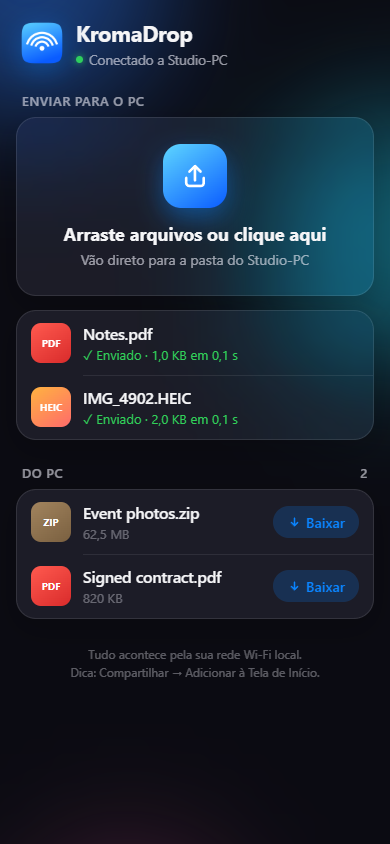
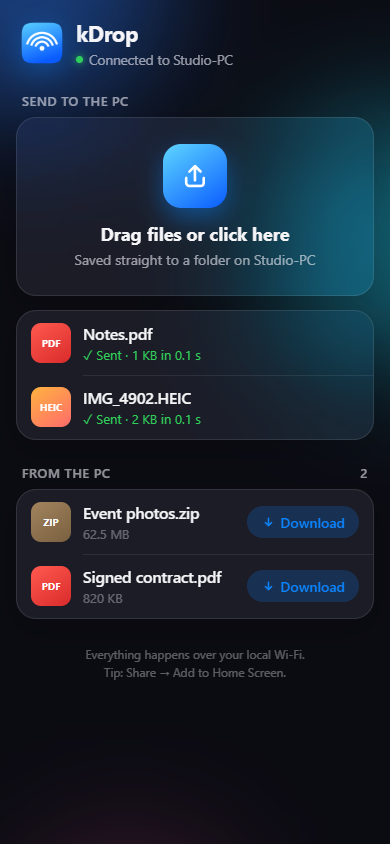
Rename the app to kDrop
New product name, package name and app ID. Settings, history and the
access code move over from the old KromaDrop data folder on first run.
README screenshots retaken, with an example save path.

diff --git a/src/main.js b/src/main.js
@@ -9,7 +9,7 @@ const { Store } = require('./store');
 const { DropServer, localAddresses } = require('./server');
 const i18n = require('./i18n');
 
-app.setAppUserModelId('com.kromaverso.kromadrop');
+app.setAppUserModelId('com.kromaverso.kdrop');
 // Modo de captura de telas (desenvolvimento): perfil isolado, salva PNGs e fecha.
 const CAPTURE_DIR = process.env.KD_CAPTURE;
 if (CAPTURE_DIR) app.setPath('userData', path.join(CAPTURE_DIR, 'profile'));
@@ -97,7 +97,7 @@ function createWindow() {
     minWidth: 820,
     minHeight: 560,
     show: false,
-    title: 'KromaDrop',
+    title: 'kDrop',
     icon: path.join(ASSETS, 'icon.png'),
     titleBarStyle: 'hidden',
     backgroundMaterial: 'acrylic',
@@ -138,7 +138,7 @@ function updateTray() {
   if (!tray) return;
   const a = localAddresses()[0];
   const status = server.server && a ? t('tray.ready', { address: `${a.address}:${server.port}` }) : t('tray.stopped');
-  tray.setToolTip(`KromaDrop — ${status}`);
+  tray.setToolTip(`kDrop — ${status}`);
   tray.setContextMenu(Menu.buildFromTemplate([
     { label: status, enabled: false },
     { type: 'separator' },
@@ -278,15 +278,29 @@ const handlers = {
 };
 for (const [ch, fn] of Object.entries(handlers)) ipcMain.handle(ch, (_e, ...args) => fn(...args));
 
+// O app se chamava KromaDrop: traz configurações, histórico e código de acesso da pasta antiga.
+function migrateFromKromaDrop() {
+  const oldFile = path.join(app.getPath('appData'), 'KromaDrop', 'kromadrop.json');
+  const newFile = path.join(app.getPath('userData'), 'kdrop.json');
+  if (CAPTURE_DIR || fs.existsSync(newFile) || !fs.existsSync(oldFile)) return;
+  try {
+    fs.mkdirSync(path.dirname(newFile), { recursive: true });
+    fs.copyFileSync(oldFile, newFile);
+  } catch (err) {
+    console.error('Migração do KromaDrop falhou:', err);
+  }
+}
+
 // ---------- App ----------
 app.on('second-instance', () => showWindow());
 
 app.whenReady().then(async () => {
+  migrateFromKromaDrop();
   store = new Store(app.getPath('userData'));
   if (process.env.KD_LANG) store.data.settings.language = process.env.KD_LANG; // capturas por idioma
   applyLanguage();
   server = new DropServer(store);
-  server.logFile = path.join(app.getPath('userData'), 'kromadrop.log');
+  server.logFile = path.join(app.getPath('userData'), 'kdrop.log');
   wireServer();
   nativeTheme.themeSource = 'system';
 

diff --git a/tools/capture.js b/tools/capture.js
@@ -10,7 +10,9 @@ async function captureViews({ win, store, server, transfers, pushState, outDir }
   const samples = path.join(outDir, 'samples');
   fs.mkdirSync(samples, { recursive: true });
   store.data.settings.deviceName = 'Studio-PC';
-  store.data.settings.saveDir = path.join(outDir, 'received');
+  // Caminho de exemplo só para as capturas do PC (nada é salvo nelas); a página do
+  // celular, que envia arquivos de verdade, usa a pasta temporária logo abaixo.
+  store.data.settings.saveDir = 'C:\\Users\\Studio\\Downloads\\kDrop';
   const mk = (name, kb) => {
     const p = path.join(samples, name);
     fs.writeFileSync(p, Buffer.alloc(kb * 1024));
@@ -43,6 +45,7 @@ async function captureViews({ win, store, server, transfers, pushState, outDir }
   }
 
   // Página do iPhone
+  store.data.settings.saveDir = path.join(outDir, 'received');
   const phone = new BrowserWindow({ width: 390, height: 844, show: true, frame: false, backgroundColor: '#0b0b12' });
   await phone.loadURL(`http://127.0.0.1:${server.port}/?t=${store.settings.token}`);
   await wait(1200);

diff --git a/src/mobile/index.html b/src/mobile/index.html
@@ -5,11 +5,11 @@
   <meta name="viewport" content="width=device-width, initial-scale=1, viewport-fit=cover" />
   <meta name="apple-mobile-web-app-capable" content="yes" />
   <meta name="apple-mobile-web-app-status-bar-style" content="black-translucent" />
-  <meta name="apple-mobile-web-app-title" content="KromaDrop" />
+  <meta name="apple-mobile-web-app-title" content="kDrop" />
   <meta name="theme-color" content="#0b0b12" />
   <link rel="apple-touch-icon" href="/icon.png" />
   <link rel="manifest" href="/manifest.webmanifest" />
-  <title>KromaDrop</title>
+  <title>kDrop</title>
   <style>
     :root {
       --bg: #0b0b12;
@@ -123,7 +123,7 @@
   <header>
     <img src="/icon.png" alt="" />
     <div>
-      <h1>KromaDrop</h1>
+      <h1>kDrop</h1>
       <p><span class="dot" id="dot"></span><span id="conn"></span></p>
     </div>
   </header>

diff --git a/src/server.js b/src/server.js
@@ -99,7 +99,7 @@ class DropServer extends EventEmitter {
     return this.start();
   }
 
-  // Registro simples para diagnosticar transferências (kromadrop.log na pasta de dados).
+  // Registro simples para diagnosticar transferências (kdrop.log na pasta de dados).
   log(line) {
     if (!this.logFile) return;
     fs.appendFile(this.logFile, `${new Date().toISOString()} ${line}\n`, () => {});
@@ -200,7 +200,7 @@ class DropServer extends EventEmitter {
     const total = Number(req.headers['content-length']) || 0;
     const device = deviceFromUA(req.headers['user-agent']);
     const id = crypto.randomUUID();
-    const partial = path.join(dir, `.${id}.kromadrop-part`);
+    const partial = path.join(dir, `.${id}.kdrop-part`);
     const out = fs.createWriteStream(partial);
     let received = 0;
     let lastEmit = 0;

diff --git a/src/renderer/index.html b/src/renderer/index.html
@@ -3,7 +3,7 @@
 <head>
   <meta charset="utf-8" />
   <meta http-equiv="Content-Security-Policy" content="default-src 'self'; img-src 'self' data:; style-src 'self' 'unsafe-inline'; script-src 'self'" />
-  <title>KromaDrop</title>
+  <title>kDrop</title>
   <link rel="stylesheet" href="styles.css" />
 </head>
 <body>
@@ -22,7 +22,7 @@
       <div class="brand">
         <img src="../../assets/icon.png" alt="" />
         <div>
-          <strong>KromaDrop</strong>
+          <strong>kDrop</strong>
           <span id="brand-device">—</span>
         </div>
       </div>

diff --git a/src/store.js b/src/store.js
@@ -15,10 +15,10 @@ function newToken() {
 
 class Store {
   constructor(dir) {
-    this.file = path.join(dir, 'kromadrop.json');
+    this.file = path.join(dir, 'kdrop.json');
     const defaults = {
       settings: {
-        saveDir: path.join(os.homedir(), 'Downloads', 'KromaDrop'),
+        saveDir: path.join(os.homedir(), 'Downloads', 'kDrop'),
         organizeByDate: false,
         port: 8765,
         token: newToken(),

diff --git a/README.md b/README.md
@@ -1,8 +1,8 @@
 <p align="center">
-  <img alt="KromaDrop" src="assets/icon.png" width="112">
+  <img alt="kDrop" src="assets/icon.png" width="112">
 </p>
 
-<h1 align="center">KromaDrop</h1>
+<h1 align="center">kDrop</h1>
 
 <p align="center">
   <b>AirDrop-style file sharing for Windows: send to and from iPhone, Mac and any computer on your Wi-Fi.</b><br>
@@ -29,7 +29,7 @@
 </p>
 
 <p align="center">
-  <img alt="KromaDrop on Windows: recent transfers with a file arriving from an iPhone" src="docs/images/recent.png" width="860">
+  <img alt="kDrop on Windows: recent transfers with a file arriving from an iPhone" src="docs/images/recent.png" width="860">
   <br>
   <sub>Recents: everything that came in and went out, grouped by day, with live progress and speed.</sub>
 </p>
@@ -74,7 +74,7 @@ To add a language, copy [`src/locales/en.json`](src/locales/en.json) to `src/loc
       <h3>Send from the PC</h3>
       Drag files anywhere onto the window, or press <b>Ctrl+O</b>. They appear instantly under <b>From the PC</b> on every connected phone or computer, with no refresh needed. On the iPhone, <b>Download</b> saves to Files → Downloads.
       <br><br>
-      Shared files stay available until you remove them. KromaDrop serves them straight from where they are on disk, without copying them.
+      Shared files stay available until you remove them. kDrop serves them straight from where they are on disk, without copying them.
     </td>
     <td width="50%" valign="top">
       <img alt="iPhone page with uploads and files from the PC" src="docs/images/phone.png" width="300">
@@ -121,21 +121,21 @@ To add a language, copy [`src/locales/en.json`](src/locales/en.json) to `src/loc
 ## How it works
 
 ```
- iPhone / Mac / other PC                         Windows PC running KromaDrop
+ iPhone / Mac / other PC                         Windows PC running kDrop
  ┌────────────────────┐   same Wi-Fi / router   ┌──────────────────────────────┐
  │  Safari / browser  │ ──── HTTP upload ─────▶ │  local server (port 8765)    │──▶ your folder
- │  KromaDrop page    │ ◀─── HTTP download ──── │  shared files list           │◀── drag & drop
+ │  kDrop page    │ ◀─── HTTP download ──── │  shared files list           │◀── drag & drop
  │                    │ ◀─── live updates ───── │  (Server-Sent Events)        │
  └────────────────────┘                         └──────────────────────────────┘
 ```
 
-KromaDrop runs a small web server on your PC that only your local network can reach. The phone or computer opens its page, and files stream straight between the two devices, with nothing in the middle.
+kDrop runs a small web server on your PC that only your local network can reach. The phone or computer opens its page, and files stream straight between the two devices, with nothing in the middle.
 
-**Why doesn't the PC show up in the iPhone's AirDrop list?** AirDrop runs on AWDL, a private Apple Wi-Fi protocol that standard Windows Wi-Fi drivers can't speak. KromaDrop gets you the same result over your normal network, and the share sheet shortcut puts **Send to PC** right next to AirDrop.
+**Why doesn't the PC show up in the iPhone's AirDrop list?** AirDrop runs on AWDL, a private Apple Wi-Fi protocol that standard Windows Wi-Fi drivers can't speak. kDrop gets you the same result over your normal network, and the share sheet shortcut puts **Send to PC** right next to AirDrop.
 
 ## How fast is it?
 
-Files go device → router → PC, so speed depends on your network, not on KromaDrop.
+Files go device → router → PC, so speed depends on your network, not on kDrop.
 
 | Network | Typical speed | 1 GB video |
 |---|---|---|
@@ -160,7 +160,7 @@ npm run dist       # build a Windows installer into dist/
 
 The first time it runs:
 
-1. **Windows Firewall** asks about KromaDrop. Allow it on **Private networks**.
+1. **Windows Firewall** asks about kDrop. Allow it on **Private networks**.
 2. Make sure your Wi-Fi is set to **Private** in *Settings → Network & internet → Wi-Fi*. On a Public network, Windows blocks incoming connections.
 3. Open **Conectar** (Connect) and scan the QR code with the iPhone camera.
 
@@ -188,14 +188,14 @@ The QR code updates when the PC's IP changes, but the shortcut keeps the old add
 | Slow transfers | Use 5 GHz instead of 2.4 GHz, move closer to the router, or connect the PC by cable. Turn off VPNs. |
 | Port already in use | Pick another port under **Ajustes → Porta**. |
 
-Transfers are logged to `%APPDATA%\KromaDrop\kromadrop.log`. Include that file when you open an issue.
+Transfers are logged to `%APPDATA%\kDrop\kdrop.log`. Include that file when you open an issue.
 
 ## Under the hood
 
 - **Electron app** with a frameless window, custom traffic-light controls and the Windows 11 acrylic backdrop. It lives in the tray and can start with Windows.
 - **Plain Node HTTP server** with no web framework. Uploads stream straight to disk with no size limit, downloads support HTTP Range so they can resume, and the shared list reaches every device live over Server-Sent Events.
 - **One self-contained page** for phones and other computers (HTML, CSS and JS in one file), installable to the Home Screen.
-- **No database**: settings, history and the shared list live in one JSON file in `%APPDATA%\KromaDrop`.
+- **No database**: settings, history and the shared list live in one JSON file in `%APPDATA%\kDrop`.
 
 | Endpoint | What it does |
 |---|---|
@@ -226,13 +226,13 @@ To refresh the screenshots with sample data in an isolated profile, run `npx ele
 
 ## Security
 
-- Only devices on your local network can reach KromaDrop, and every request needs the access code.
+- Only devices on your local network can reach kDrop, and every request needs the access code.
 - The code is 8 random characters. Generating a new one in Settings disconnects every device right away.
 - Uploaded file names are cleaned up, so files can't escape the folder you chose or overwrite each other.
-- Traffic is plain HTTP inside your network. Use KromaDrop on networks you trust, not on public Wi-Fi.
+- Traffic is plain HTTP inside your network. Use kDrop on networks you trust, not on public Wi-Fi.
 
 ---
 
 <p align="center">
-  <sub>Made by <a href="https://github.com/Kromaverso">Kromaverso</a>. AirDrop is a trademark of Apple Inc. KromaDrop is not affiliated with or endorsed by Apple.</sub>
+  <sub>Made by <a href="https://github.com/Kromaverso">Kromaverso</a>. AirDrop is a trademark of Apple Inc. kDrop is not affiliated with or endorsed by Apple.</sub>
 </p>

diff --git a/README.pt-BR.md b/README.pt-BR.md
@@ -1,4 +1,4 @@
-# KromaDrop
+# kDrop
 
 <sub>[English](README.md) · **Português**</sub>
 
@@ -6,7 +6,7 @@ Compartilhamento de arquivos no estilo AirDrop entre Windows, iPhone, Mac e
 qualquer computador da mesma rede. O outro aparelho não precisa instalar nada:
 é só escanear um QR code ou abrir um link. Nada passa pela internet.
 
-![KromaDrop no Windows](docs/images/recent.png)
+![kDrop no Windows](docs/images/recent.png)
 
 ## Rodar
 
@@ -39,13 +39,13 @@ O app fala 14 idiomas e segue o idioma do Windows (ou o que você escolher em *A
 - **Mac ou outro computador na mesma rede (Windows, Linux):** abra o endereço
   mostrado em *Conectar* em qualquer navegador e digite o código de acesso na
   primeira vez. Para mandar a este PC, arraste arquivos para a página; para
-  receber, arraste na janela do KromaDrop e clique em *Baixar* no outro computador.
+  receber, arraste na janela do kDrop e clique em *Baixar* no outro computador.
 
 ## Estrutura
 
 - `src/main.js`: janela (acrílico do Windows 11), bandeja, notificações, IPC
 - `src/server.js`: servidor HTTP (upload em stream, download com Range, eventos SSE)
-- `src/store.js`: configurações, histórico e lista de envio (JSON em `%APPDATA%\KromaDrop`)
+- `src/store.js`: configurações, histórico e lista de envio (JSON em `%APPDATA%\kDrop`)
 - `src/renderer/`: interface do PC
 - `src/mobile/index.html`: página do iPhone/Mac
 - `tools/make-icon.js`: gera os ícones; `tools/capture.js`: capturas de tela
